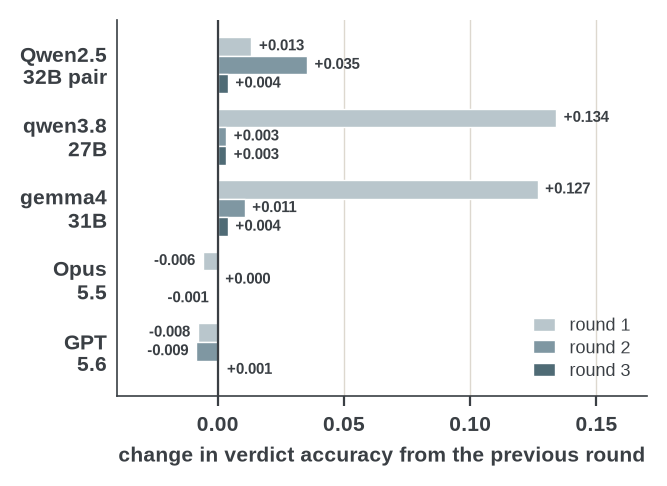
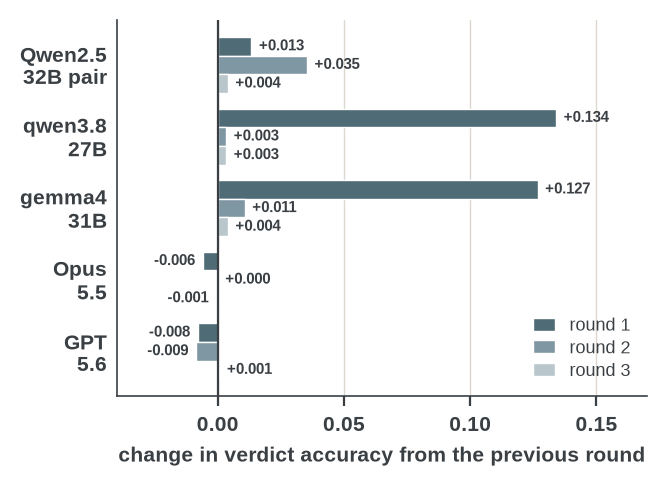
Repair ramp dark-to-light (round 1 darkest); GPT-5.6 dashed in the radar and level figures

diff --git a/scripts/paper_figures.py b/scripts/paper_figures.py
@@ -47,7 +47,7 @@ A_BROWN = "#8B6B4A"; A_TAN = "#C9B38E"; A_CREAM = "#F3F0E4"; A_LIME = "#C8C46E";
 RUST, WHEAT, SAGE, SLATE_M, INK, GOLD = "#A0522D", "#D4B483", "#7A9A7E", "#4F6B75", "#2B3A42", "#A8812E"
 CREAM = "#F3EFE8"
 MODEL_COLORS = [RUST, WHEAT, SAGE, SLATE_M, INK]
-ROUND_RAMP = ["#B9C6CC", "#7F97A2", SLATE_M]                      # rounds 1, 2, 3
+ROUND_RAMP = [SLATE_M, "#7F97A2", "#B9C6CC"]                      # rounds 1, 2, 3: dark to light, round 1 gains most
 DIVERGING = [RUST, "#D9A48C", CREAM, "#9FB3BD", SLATE_M]          # loss -> 0 -> gain
 MODELS = [("q25pair", "Qwen2.5-32B pair", RUST),
           ("qwen38_27b", "qwen3.8-27B", WHEAT),
@@ -309,7 +309,7 @@ def fig_family_radar(palette: str = "paper", suffix: str = ""):
     for j, (key, label, _) in enumerate(MODELS):
         v = np.concatenate([O[:, j], O[:1, j]])
         ax.plot(ang_c, v, color=cols[j], lw=lws[j], marker="o", ms=3.4, markeredgecolor="white", markeredgewidth=0.5,
-                label=label, zorder=5 - j)
+                label=label, zorder=5 - j, ls=(0, (3, 1.5)) if key == "gpt" else "-")
         ax.fill(ang_c, v, color=cols[j], alpha=0.10, zorder=1)
     ax.set_theta_offset(np.pi / 2); ax.set_theta_direction(-1)
     ax.set_xticks(ang)
@@ -383,7 +383,8 @@ def fig_tiers():
         x = np.arange(3)
         for j, (key, label) in enumerate(TC.MODELS):
             y = TC.tier_acc(key, suf)
-            ax.plot(x, y, color=cols[j], lw=1.7, marker="o", ms=4, markeredgecolor="white", markeredgewidth=0.6, label=label, zorder=5 - j)
+            ax.plot(x, y, color=cols[j], lw=1.7, marker="o", ms=4, markeredgecolor="white", markeredgewidth=0.6, label=label, zorder=5 - j,
+                    ls=(0, (3, 1.5)) if key == "gpt" else "-")
             if key in ("q25pair", "qwen38_27b", "gemma4_31b"):  # the frontier ends coincide near 1.0
                 ax.text(x[-1] + 0.07, y[-1], f"{y[-1]:.3f}", fontsize=5.6, color=cols[j], va="center", ha="left")
         ax.set_xticks(x); ax.set_xticklabels(levels)
